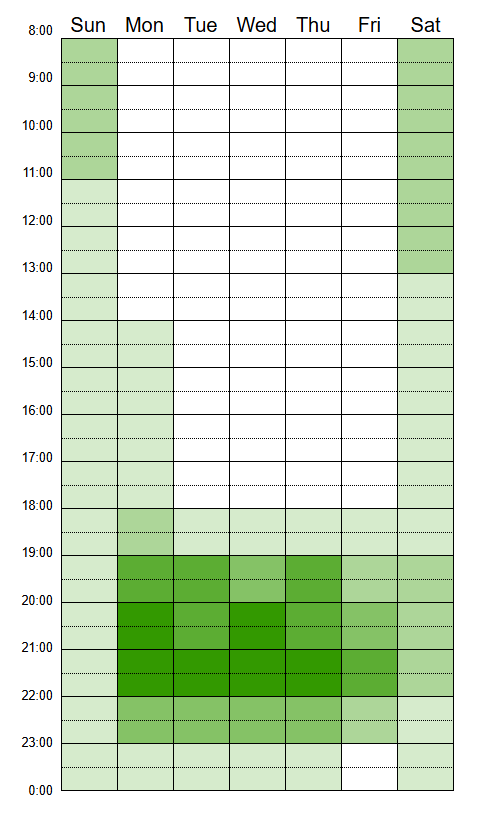
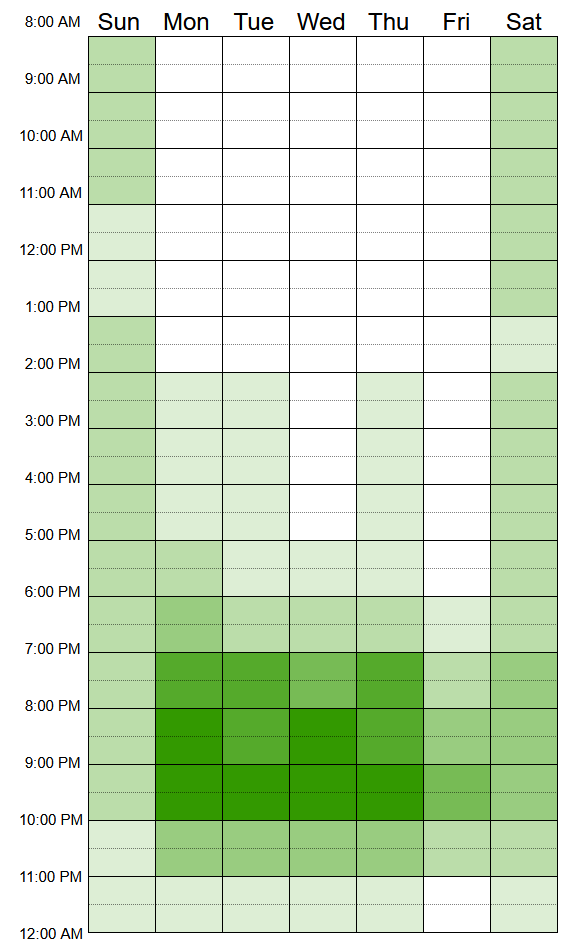
docs: update hetmap related images

diff --git a/docs/equipe/disponibilidade.md b/docs/equipe/disponibilidade.md
@@ -13,14 +13,14 @@ Cada integrante do grupo preencheu o heatmap de acordo com a sua disponibilidade
 O resultado do heatmap após o preenchimento dos integrantes pode ser encontrado abaixo, podendo-se notar que o grupo possui disponibilidade de todos os integrantes às segundas e quartas, das 20h às 22h, e às terças e quintas, de 21h às 22h.
 
 <p style="text-align: center;"><em>Figura 01 - Heatmap</em></p>
-<p style="text-align: center;"><img src="../images/heatmap.png" alt="Heatmap de disponibilidade do Grupo 03"></p>
-<p style="text-align: center;"><em>Fonte - Heloisa Silva</em></p>
+<img src="../images/heatmap.png" alt="Heatmap de disponibilidade do Grupo 03" style="width: 40%; display: block; margin: 0 auto;">
+<p style="text-align: center;"><em>Fonte - Mateus Barreto</em></p>
 
 A disponibilidade dos integrantes varia de acordo com as cores do heatmap: branco indica 0 integrantes disponíveis, enquanto tons mais escuros de verde indicam maior quantidade de integrantes disponíveis.
 
 <p style="text-align: center;"><em>Figura 02 - Legenda das cores do heatmap</em></p>
-<p style="text-align: center;"><img src="../images/legendaHetmap.png" alt="Legenda das cores do heatmap"></p>
-<p style="text-align: center;"><em>Fonte - Heloisa Silva</em></p>
+<p style="text-align: center;"><img src="../images/legendaHeatmap.png" alt="Legenda das cores do heatmap" style="width: 35%; display: block; margin: 0 auto;></p>
+<p style="text-align: center;"><em>Fonte - Mateus Barreto</em></p>
 
 ## Agradecimentos à Inteligência Artificial
 
@@ -31,4 +31,4 @@ Agradecemos ao Microsoft Copilot pela ajuda na edição desta página.
 | Versão | Data | Descrição | Autor | Revisor |
 | --- | --- | --- | --- | --- |
 | 1.0 | 10/04/2026 | Criação e atualização da página de disponibilidade com introdução, metodologia, resultados, figuras, legenda e agradecimentos | Heloisa Silva |  |
-
+| 2.0 | 12/04/2026 | Atualização das imagens do heatmap e da legenda da página de disponibilidade | Mateus Barreto |  |